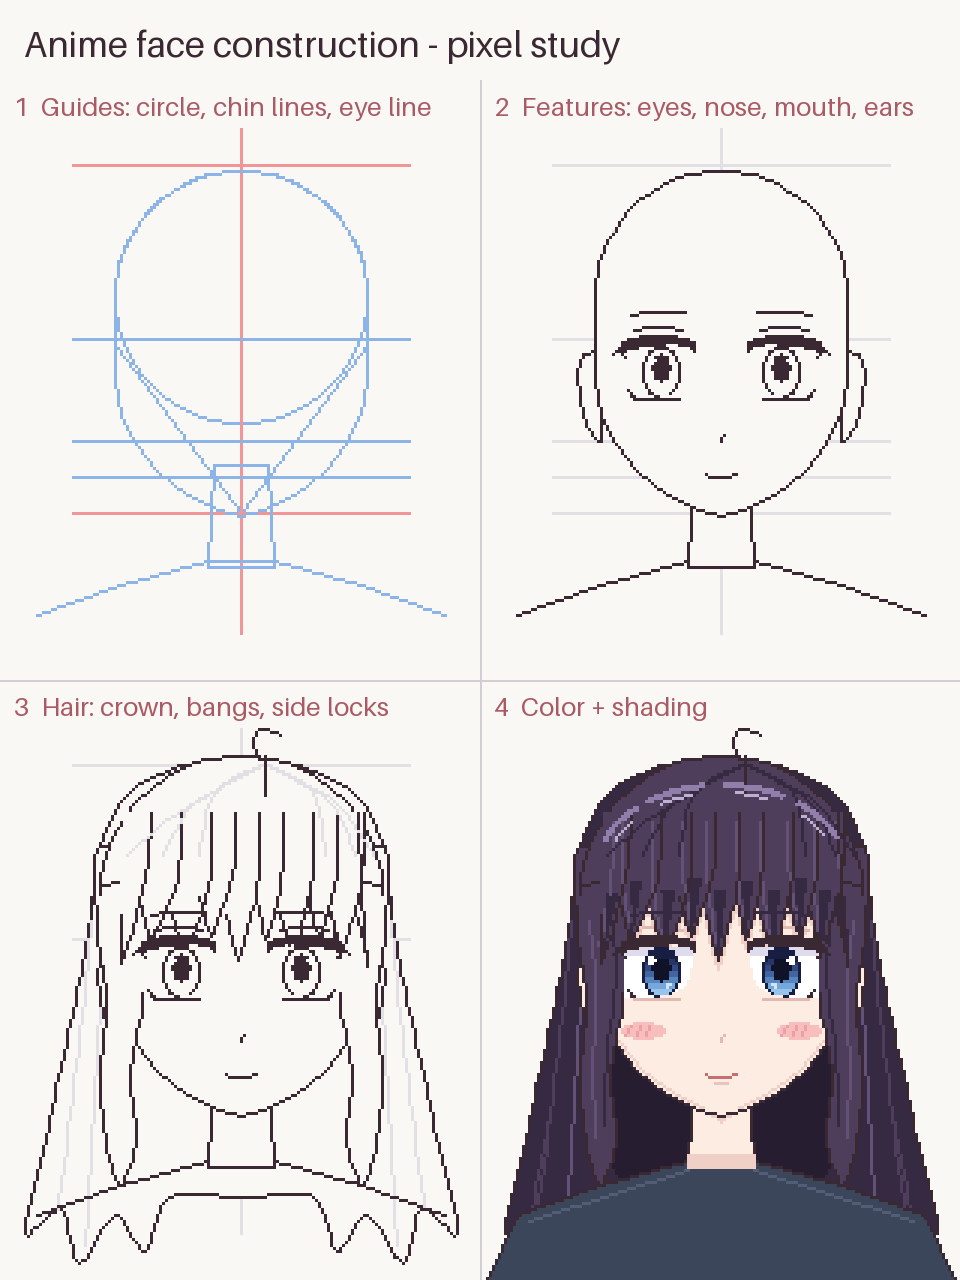
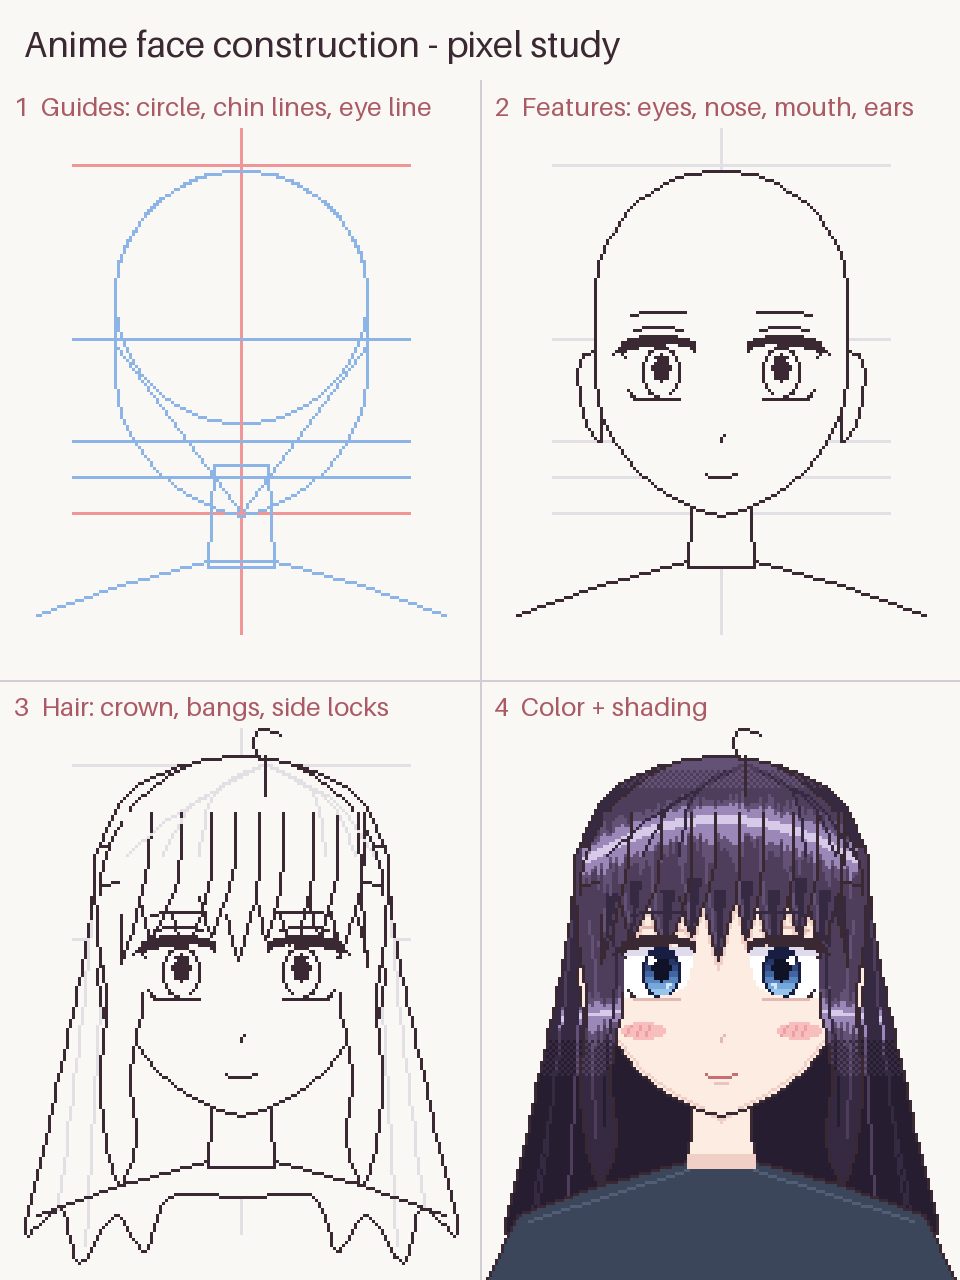
Face study: glow-band hair shading broken by strands and streaked
Claude-Session: https://claude.ai/code/session_0155yoUibrhMAmrpcv8V9b9L

Changed region(s): [[0.5938, 0.5938, 0.9062, 0.6875], [0.8438, 0.7812, 0.9688, 0.9375], [0.5625, 0.7812, 0.6562, 0.9375]]

diff --git a/draw_face_study.py b/draw_face_study.py
@@ -9,6 +9,7 @@ Proportions follow the classic anime head guide:
 - ears between eye line and nose, short slim neck
 """
 import math
+import random
 from PIL import Image, ImageDraw, ImageFont
 
 K = 2                      # detail multiplier
@@ -28,8 +29,8 @@ HAIR = (78, 62, 92)
 HAIR_SHADE = (54, 42, 66)
 HAIR_DEEP = (38, 30, 48)
 HAIR_MID = (100, 82, 118)
-HAIR_HI = (146, 126, 170)
-HAIR_SHINE = (190, 176, 210)
+HAIR_HI = (156, 136, 184)
+HAIR_SHINE = (214, 202, 232)
 IRIS = [(24, 30, 66), (30, 40, 82), (38, 54, 104), (50, 74, 130), (66, 100, 160),
         (88, 132, 192), (118, 168, 220), (150, 196, 236)]
 PUPIL = (16, 18, 40)
@@ -264,13 +265,73 @@ def hair_front(pen, step):
         pen.line(smooth([(44 + side * 0.5, 14), (mid, 16 + abs(x - 44) * 0.25), (x, 29)], n=6, closed=False), fill=flow)
     pen.line([(44, 12.5), (44, 19)], fill=LINE)          # the part
     pen.line(smooth([(43, 13), (42, 10), (43.5, 8), (46.5, 8.8)], n=5, closed=False), fill=LINE)   # ahoge
-    if color:
-        # angel-ring shine, broken into soft strands that follow the dome
-        box = pen.P([(19, 17), (61, 46)])
-        box2 = pen.P([(20.5, 18.5), (59.5, 46)])
-        for a0, a1 in ((200, 228), (234, 262), (272, 300), (308, 338)):
-            pen.d.arc((box[0][0], box[0][1], box[1][0], box[1][1]), a0, a1, fill=HAIR_HI, width=2)
-            pen.d.arc((box2[0][0], box2[0][1], box2[1][0], box2[1][1]), a0 + 5, a1 - 7, fill=HAIR_SHINE)
+
+
+HAIR_RAMP = [HAIR_DEEP, HAIR_SHADE, HAIR, HAIR_MID, HAIR_HI, HAIR_SHINE]
+STRAND_LINES = (HAIR_DEEP, HAIR_SHADE, LINE)
+
+
+def hair_light(pen, img):
+    """Hair shading in the style of the 'add glow' technique:
+    1. light at the top, darker toward the ends (banded gradient)
+    2. a glow band across the hair...
+    3. ...cut by the strand lines ("eraser")...
+    4. ...and smudged into streaks along the strands ("blur + finger tip")."""
+    ox, oy = pen.ox, pen.oy
+    W, H = PW, PH
+    px = img.load()
+    hair = {c: i for i, c in enumerate(HAIR_RAMP)}
+
+    # 1. gradient: shift each hair pixel along the ramp by height
+    for y in range(H):
+        gy = y / K
+        for x in range(W):
+            checker = (x + y) % 2 == 0
+            if gy < 15 or (gy < 18 and checker):
+                shift = 1
+            elif gy < 60 or (gy < 66 and checker):
+                shift = 0
+            else:
+                shift = -1
+            if shift == 0:
+                continue
+            c = px[ox + x, oy + y]
+            if c in hair and c != HAIR_DEEP:
+                px[ox + x, oy + y] = HAIR_RAMP[max(0, min(len(HAIR_RAMP) - 2, hair[c] + shift))]
+
+    rng = random.Random(7)
+
+    def band(center_y, x_range, half=2.5):
+        """Glow band whose centre follows center_y(gx); streaks up and down per column."""
+        for x in range(*x_range):
+            gx = x / K
+            cy = center_y(gx) * K
+            up = rng.choice((2, 3, 3, 4, 5, 6))
+            down = rng.choice((3, 4, 6, 7, 9, 11))
+            if rng.random() < 0.18:          # some columns barely shine
+                up, down = 1, 2
+            for y in range(int(cy - half - up), int(cy + half + down) + 1):
+                if not (0 <= y < H):
+                    continue
+                c = px[ox + x, oy + y]
+                if c not in hair or c in STRAND_LINES:
+                    continue                 # strand lines cut the glow
+                dy = y - cy
+                if abs(dy) <= half * 0.5:
+                    nc = HAIR_SHINE
+                elif abs(dy) <= half:
+                    nc = HAIR_HI
+                elif (dy < 0 and -dy - half <= up * 0.5) or (dy > 0 and dy - half <= down * 0.45):
+                    nc = HAIR_HI
+                else:
+                    nc = HAIR_MID
+                if hair[nc] > hair[c]:
+                    px[ox + x, oy + y] = nc
+
+    # glow ring around the crown, curving down toward the sides of the head
+    band(lambda gx: 23 + ((gx - 40) / 23) ** 2 * 7, (int(17 * K), int(63 * K)), half=3)
+    # softer second glow on the long hair lengths
+    band(lambda gx: 54 + ((gx - 40) / 30) ** 2 * 3, (int(4 * K), int(76 * K)), half=1.5)
 
 
 def panel(img, ox, oy, step):
@@ -329,6 +390,8 @@ def panel(img, ox, oy, step):
                 pen.line([(x - 2 + k * 1.6, 57.6), (x - 2.8 + k * 1.6, 58.8)], fill=(236, 160, 164))
     if step >= 3:
         hair_front(pen, step)
+        if color:
+            hair_light(pen, img)
     features(pen, color)       # eyes and brows sit on top of the bangs
 
 
